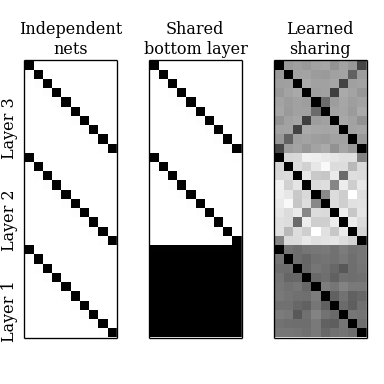
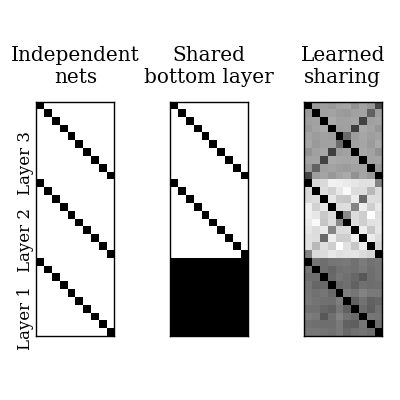
Switched to matshow instead of imshow

Changed region(s): [[0.3438, 0.0312, 0.9688, 0.9062], [0.0, 0.0625, 0.3438, 0.9062]]

diff --git a/experiments/Feb_4_augmented_omniglot/1/experiment.py b/experiments/Feb_4_augmented_omniglot/1/experiment.py
@@ -148,7 +148,7 @@ def plot():
     fig.set_size_inches((4,4))
     for i, name in enumerate(names):
         ax = fig.add_subplot(1, 3, i + 1)
-        ax.imshow(covar_imgs[name], cmap = mpl.cm.binary)
+        ax.matshow(covar_imgs[name], cmap = mpl.cm.binary)
         ax.set_title(title_strings[name])
         ax.set_xticks([])
         ax.set_yticks([])
